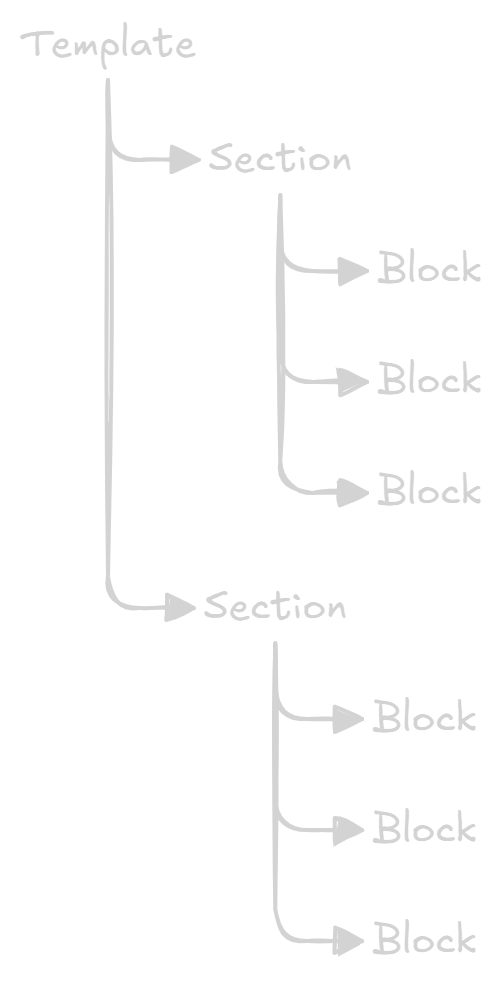
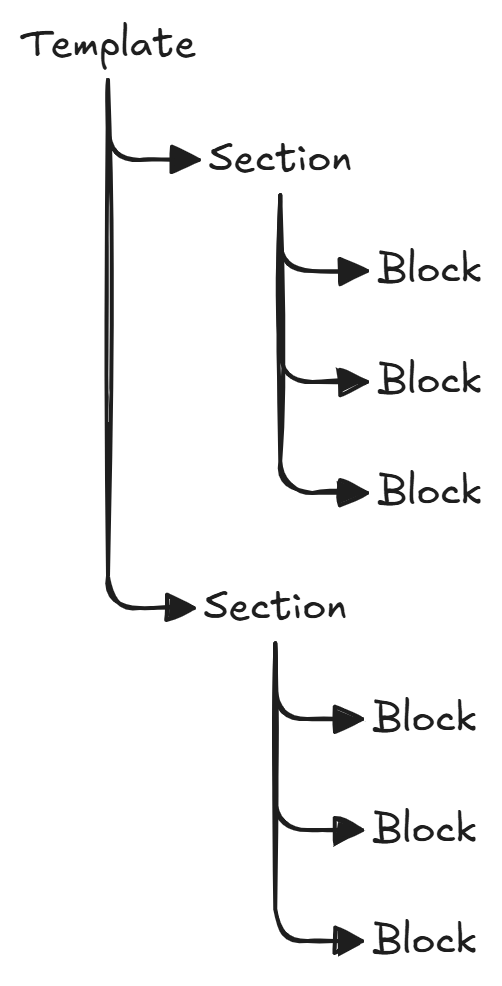
feat: 다크 테마에서 이미지 필터 추가
- 다크 테마에서 Excalidraw 이미지에 필터 적용
- 새로운 이미지 파일 추가

diff --git a/style/components.css b/style/components.css
@@ -732,6 +732,10 @@
   border-radius: 0.2em;
 }
 
+[data-theme="dark"] .markdown-body .excalidraw-figure img {
+  filter: invert(100%);
+}
+
 .text-link {
   color: var(--text);
   font-weight: 600;